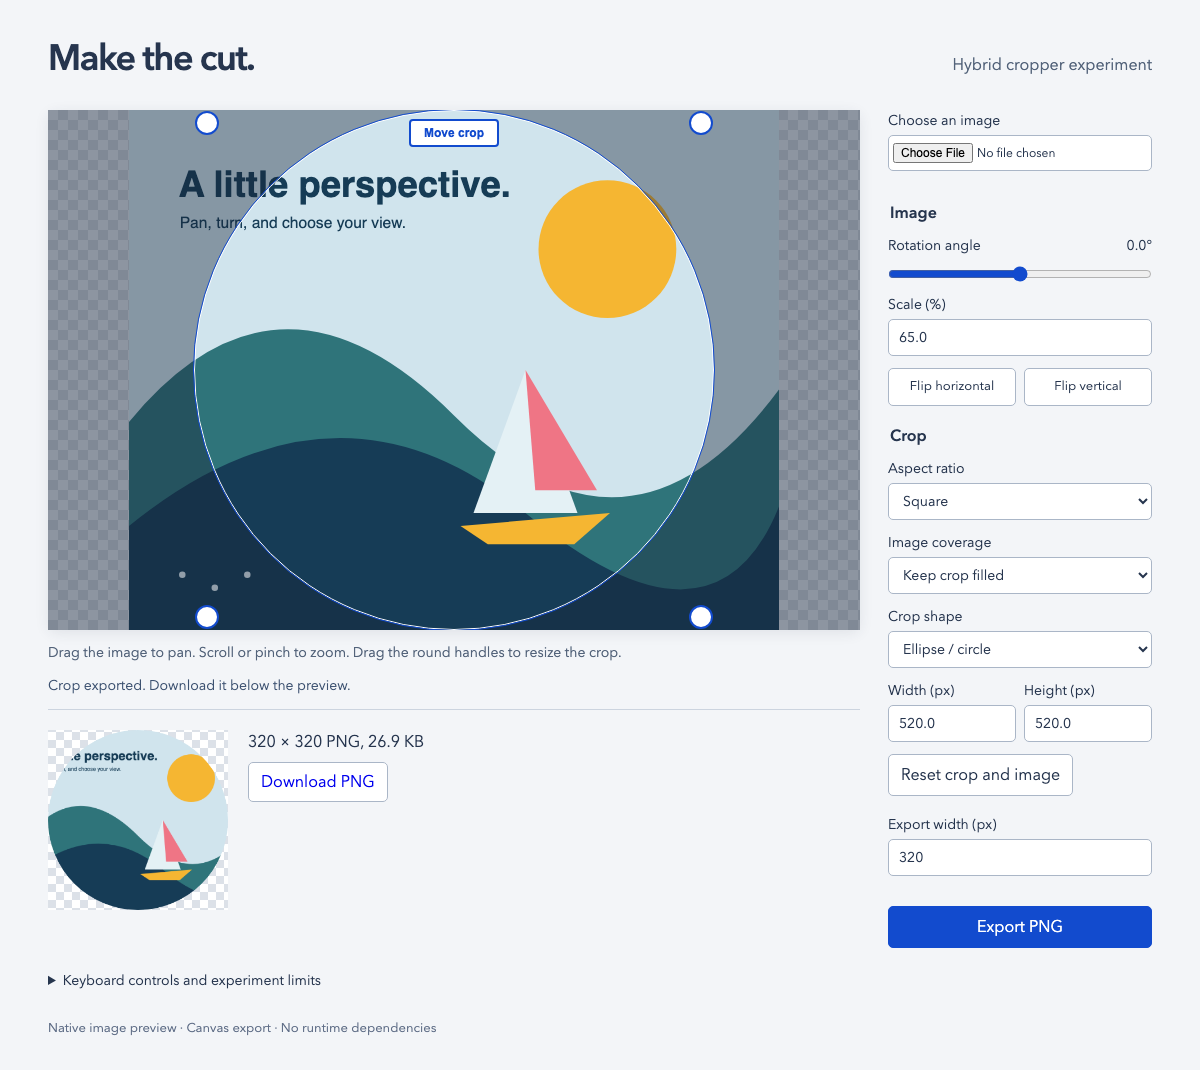
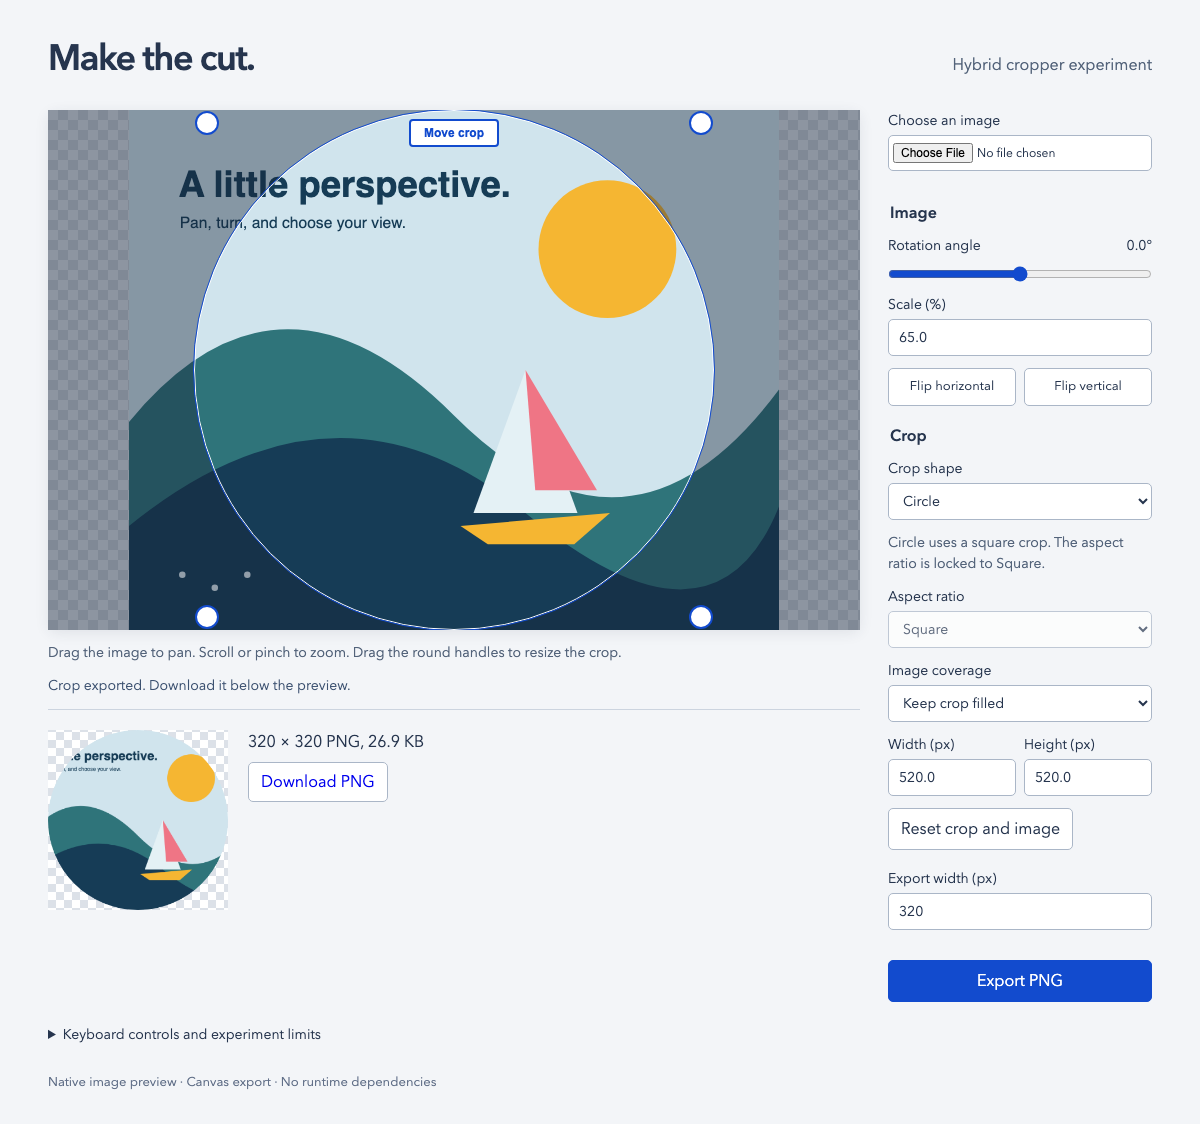
docs(experiment): record the automatic Circle workflow

diff --git a/experiments/reports/hybrid-validation.md b/experiments/reports/hybrid-validation.md
@@ -16,11 +16,11 @@ Measured with Bun **1.4.2**, Node **24.16.0**, zlib **1.3.1-e00f703**, gzip leve
 | **Embeddable component** | **15,678** | **6,172** |
 | **Component plus optional JPEG metadata module** | **16,818** | **6,769** |
 
-The optional metadata entry adds 1,140 raw / **597 gzip bytes**. The complete demo adds its control panel, HTML, page styling and sample: **25,470 raw / 9,916 gzip bytes**; excluding only the sample yields 9,497 gzip bytes. Test-only production/DOMMatrix bundles are not requested by the demo. Exact hashes and loading graphs are in the recorded JSON.
+The optional metadata entry adds 1,140 raw / **597 gzip bytes**. The complete demo adds its control panel, HTML, page styling and sample: **26,198 raw / 10,152 gzip bytes**; excluding only the sample yields 9,733 gzip bytes. Test-only production/DOMMatrix bundles are not requested by the demo. Exact hashes and loading graphs are in the recorded JSON.
 
 The earlier lean component was 4,627 gzip bytes. Restoring these behaviors costs **1,545 bytes**, inside the proposed 6–7 kB component budget. The existing production package is 9,020 gzip bytes, but it has a different interface and compatibility contract; these figures do not establish a drop-in replacement saving.
 
-The hybrid source is based on `a006080` and integrated through `a2286b3`. Two supervised Orca workers owned coverage/core and quality export; the parent reviewed, integrated, independently reran their checks, and added demo, metadata, and reliability validation. Both worker terminals were released after acceptance. Nothing was pushed or published.
+The hybrid source is based on `a006080` and integrated through `a2286b3`; `8e6923f` makes Circle automatically select and lock Square in the demo, while keeping Ellipse available. This toolbar change leaves the component payload unchanged. Two supervised Orca workers owned coverage/core and quality export; the parent reviewed, integrated, independently reran their checks, and added demo, metadata, and reliability validation. Both worker terminals were released after acceptance. Nothing was pushed or published.
 
 ## What now works
 

diff --git a/experiments/lean-cropper/README.md b/experiments/lean-cropper/README.md
@@ -8,7 +8,7 @@ Measured with Bun 1.4.2 and Node gzip level 9:
 | --- | ---: |
 | Widget + quality exporter + required CSS | **6,172 bytes** |
 | The same, with optional JPEG EXIF reporting | **6,769 bytes** |
-| Complete demo, including controls, HTML, both stylesheets, and sample SVG | **9,916 bytes** |
+| Complete demo, including controls, HTML, both stylesheets, and sample SVG | **10,152 bytes** |
 
 The original single-pass prototype was 4,627 bytes for the widget/export/CSS subtotal. The restored guarantees cost 1,545 bytes. Totals sum independently compressed response bodies; demo JS already bundles core/export, so standalone bundles are not counted again. Read the [hybrid validation report](../reports/hybrid-validation.md) for measured results and limits, and the [original experiment report](../reports/lean-redesign.md) for historical evidence.
 
@@ -63,6 +63,8 @@ const orientation = await readBlobOrientation(file);
 ```
 
 These JPEG helpers reuse the production parser, including its bounded header scan. They report metadata; they do not orient the image. The browser handles visual orientation once.
+
+The demo offers **Circle** as a single choice: it selects and locks Square automatically, including after a new image loads. **Ellipse** allows oval crops with an editable aspect ratio. The lower-level mask interface remains general for custom controls.
 
 ## Geometry and guarantees
 
